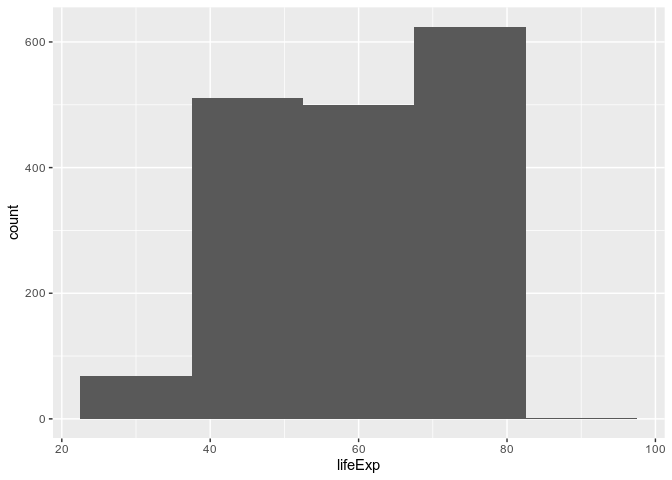
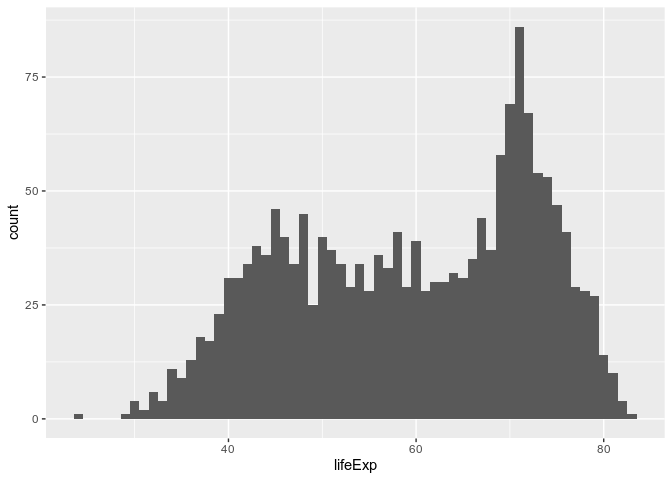
fix typos and clarify explanations

diff --git a/R/ggplot2_intermediate/ggplot2_intermediate.md b/R/ggplot2_intermediate/ggplot2_intermediate.md
@@ -1,6 +1,6 @@
 R data visualisation with RStudio and ggplot2: intermediate
 ================
-2021-01-31
+2021-02-08
 
 > This document is written in R Markdown, and then knitted into a
 > markdown document. The source code is available at:
@@ -68,14 +68,14 @@ directory:
 -   Click “New Project” (“Empty project” if you have an older version of
     RStudio)
 -   In “Directory name”, type the name of your project,
-    e.g. “ggplot2\_inter”
+    e.g. “ggplot2\_intermediate”
 -   Select the folder where to locate your project:
     e.g. `Documents/RProjects`, which you can create if it doesn’t exist
     yet. You can use your H drive at UQ to make sure you can find it
     again.
 -   Click the “Create Project” button
 
-Let’s also create a “plots” folders to store exports:
+Let’s also create a “plots” folder to store exports:
 
 ``` r
 dir.create("plots")
@@ -199,6 +199,7 @@ p +
 ```
 
 ![](ggplot2_intermediate_files/figure-gfm/unnamed-chunk-8-1.png)<!-- -->
+
 Viridis is a collection of palettes that are designed to be accessible
 (i.e. perceptually uniform in colour or black and white, and perceivable
 for various forms of colour blindness). The structure of the function
@@ -229,6 +230,9 @@ space](http://colorspace.r-forge.r-project.org/articles/color_spaces.html#human-
 This colour space is perceptually-based, which means it is particularly
 suited for human perception of colours.
 
+For colorspace, the function names are structured as follows:
+`scale_<aesthetic>_<datatype>_<colorscale>()`
+
 Let’s first use an alternative qualitative palette:
 
 ``` r
@@ -252,15 +256,11 @@ hcl_palettes(plot = TRUE)
 Let’s try a different one:
 
 ``` r
-library(colorspace)
 p +
   scale_colour_discrete_sequential("Batlow")
 ```
 
 ![](ggplot2_intermediate_files/figure-gfm/unnamed-chunk-12-1.png)<!-- -->
-
-For colorspace, the function names are structured as follows:
-`scale_<aesthetic>_<datatype>_<colorscale>()`
 
 Finally, to use a custom palette, we can use the ggplot2 function
 `scale_colour_manual()` and provide a list of colour names.
@@ -323,11 +323,14 @@ We can further customise a scale with breaks and labels:
 ``` r
 p +
   scale_x_continuous(breaks = unique_years) +
-  scale_y_continuous(breaks = c(0, 100000000, 200000000, 500000000, 1000000000),
+  scale_y_continuous(breaks = c(0, 1e8, 2e8, 5e8, 1e9),
                      labels = c(0, "100 m", "200 m", "500 m", "1 b"))
 ```
 
 ![](ggplot2_intermediate_files/figure-gfm/unnamed-chunk-16-1.png)<!-- -->
+
+> You can use the scientific notation `1e8` to mean “a 1 followed by 8
+> zeros”.
 
 ### Zooming in
 
@@ -348,9 +351,11 @@ use `subset()` (or `dplyr::filter()`) to remove the two countries from
 the data before feeding it to ggplot2.
 
 The method we use works for our point geometry, but would be problematic
-for other geometries that would get cut off when zooming in. A better
-way to focus on one part of the plot would be to modify the **coordinate
-system**:
+for other shapes that could disappear entirely if cut off when zooming
+in: we are actually **clipping** our visualisation.
+
+A better way to focus on one part of the plot would be to modify the
+**coordinate system**:
 
 ``` r
 p +
@@ -359,7 +364,7 @@ p +
 
 ![](ggplot2_intermediate_files/figure-gfm/unnamed-chunk-18-1.png)<!-- -->
 
-The cartesion coordinate system is the default one in ggplot2. You could
+The cartesian coordinate system is the default one in ggplot2. You could
 change the coordinate system to `coord_polar()` for circular
 visualisations, or to `coord_map()` to visualise spatial data.
 
@@ -380,20 +385,22 @@ ggplot(gapminder, aes(x = lifeExp)) +
 ![](ggplot2_intermediate_files/figure-gfm/unnamed-chunk-19-1.png)<!-- -->
 
 > **Saving some typing:** remember we can omit the names of the
-> arguments if we write use them in order? Being explicit about the
-> **argument names** is useful when learning the ins and outs of a
-> function, but as you get more familiar with ggplot2, you can do away
-> with the obvious ones, like `data =` and `mapping =` (as long as they
-> are used in the right order!).
+> arguments if we use them in order? Being explicit about the **argument
+> names** is useful when learning the ins and outs of a function, but as
+> you get more familiar with ggplot2, you can do away with the obvious
+> ones, like `data =` and `mapping =` (as long as they are used in the
+> right order!).
 
 Let’s change the bin width:
 
 ``` r
 ggplot(gapminder, aes(x = lifeExp)) +
-  geom_histogram(binwidth = 15)
+  geom_histogram(binwidth = 1)
 ```
 
 ![](ggplot2_intermediate_files/figure-gfm/unnamed-chunk-20-1.png)<!-- -->
+
+Here, each bar contains one year of life expectancy.
 
 We can also change the number of bins:
 
@@ -414,7 +421,7 @@ ggplot(gapminder, aes(x = lifeExp, colour = continent)) +
 
 ![](ggplot2_intermediate_files/figure-gfm/unnamed-chunk-22-1.png)<!-- -->
 
-…but it only colour the outline of the rectangles!
+…but it only colours the outline of the rectangles!
 
 Some aesthetics will work better with some geometries than others. We
 have to use the `fill` aesthetic to colour the areas instead:
@@ -428,7 +435,7 @@ ggplot(gapminder, aes(x = lifeExp, fill = continent)) +
 
 Colouring our bins allows us to experiment with the geometry’s
 **position**. The histogram geometry uses the “stack” position by
-default. It might be more readable if we change it so it uses ratios
+default. It might convey different information if we make it use ratios
 instead, using the `position = "fill"` argument:
 
 ``` r
@@ -462,15 +469,22 @@ ggplot(gapminder,
        aes(x = lifeExp,
            fill = continent)) +
   geom_histogram(bins = 40) +
-  facet_wrap(~ continent) 
+  facet_wrap(vars(continent))
 ```
 
 ![](ggplot2_intermediate_files/figure-gfm/unnamed-chunk-26-1.png)<!-- -->
 
+We have to wrap the variable(s) we want to facet by into the `vars()`
+function.
+
+> Faceting is a great way to add yet another variable to your
+> visualisation, instead of using another aesthetic.
+
 ### Theming
 
 The legend is probably superfluous. We want to keep the colours, but we
-use the `theme()` function to customise the look of our plot:
+use the `theme()` function to customise the look of our plot and remove
+the legend:
 
 ``` r
 ggplot(gapminder,
@@ -498,9 +512,9 @@ ggplot(gapminder,
 
 ![](ggplot2_intermediate_files/figure-gfm/unnamed-chunk-28-1.png)<!-- -->
 
-### A more complex facetted example
+### A more refined facetted example
 
-This extra example gives an idea of how a complex ggplot2 visualisation
+This extra example gives an idea of how a refined ggplot2 visualisation
 might be constructed. It represents 4 different variables, using the
 larger diamonds dataset.
 
@@ -516,7 +530,7 @@ ggplot(diamonds,
               linetype = "dashed",
               colour = "black",
               size = 0.5) +
-  facet_wrap(~cut) +
+  facet_wrap(vars(cut)) +
   theme_minimal() +
   labs(y = "price (USD)")
 ```
@@ -524,6 +538,18 @@ ggplot(diamonds,
     ## `geom_smooth()` using method = 'gam' and formula 'y ~ s(x, bs = "cs")'
 
 ![](ggplot2_intermediate_files/figure-gfm/unnamed-chunk-29-1.png)<!-- -->
+
+In this visualisation:
+
+-   4 different variables are represented, thanks to both aesthetics and
+    facets
+-   two geometries are layered on top of each other to repersent a
+    relationship
+-   both geometries are customised to make the plot readable (important
+    here, since there are close to 54000 rows of data)
+-   the default the colour scale is replaced
+-   a built-in theme is used
+-   a label clarifies the unit of measurement
 
 ### Boxplots
 
@@ -580,6 +606,7 @@ values.
 ### Play time!
 
 -   Create a boxplot for each continent’s population data
+
     -   Colour the boxes by continent
     -   Would a violin plot do a better job at showing densities?
     -   Let’s see if you are able to move the legend to the bottom
@@ -667,6 +694,7 @@ all the necessary commands in your script.
 ## Useful links
 
 -   For ggplot2:
+
     -   ggplot2 cheatsheet:
         <https://www.rstudio.org/links/data_visualization_cheat_sheet>
     -   Official ggplot2 documentation:
@@ -682,5 +710,6 @@ all the necessary commands in your script.
     -   Cookbook for R graphs: <http://www.cookbook-r.com/Graphs/>
     -   STHDA’s ggplot2 essentials:
         <http://www.sthda.com/english/wiki/ggplot2-essentials>
+
 -   More resources for R in general:
     <https://gitlab.com/stragu/DSH/blob/master/R/usefullinks.md>
